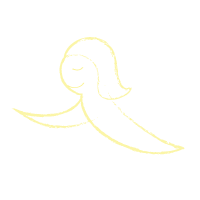
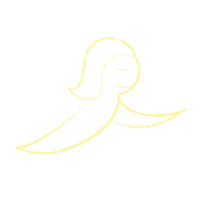
img timeline added

Changed region(s): [[0.06, 0.18, 0.93, 0.78], [0.06, 0.69, 0.45, 0.78], [0.15, 0.69, 0.21, 0.72]]

diff --git a/app/assets/stylesheets/countdown_pages.css b/app/assets/stylesheets/countdown_pages.css
@@ -2,3 +2,32 @@
 #countdown-show{
 	text-align: center;
 }
+
+#countdown-container h3 {
+	margin-bottom: 0px;
+}
+
+#countdown-container a {
+	font-size: 0.5em;
+}
+
+.countdown-show-icon {
+	width: 20%;
+}
+
+#logo-spacer {
+	display: inline-block;
+	border-bottom: 2px dashed #FCF39A;
+	width: 55%;
+	margin-top: 60px;
+	vertical-align: top;
+}
+
+.reverse {
+	 -moz-transform: scaleX(-1);
+    -o-transform: scaleX(-1);
+    -webkit-transform: scaleX(-1);
+    transform: scaleX(-1);
+    filter: FlipH;
+    -ms-filter: "FlipH";
+}

diff --git a/app/assets/stylesheets/application.css b/app/assets/stylesheets/application.css
@@ -51,7 +51,6 @@ body {
 
 
 .action_link {
-	margin-top: 40px;
 	display: block;
 	font-size: 0.6em;
 	text-decoration: none;

diff --git a/app/controllers/countdown_pages_controller.rb b/app/controllers/countdown_pages_controller.rb
@@ -6,6 +6,8 @@ class CountdownPagesController < ApplicationController
   # GET /:url_token
   def show
     @countdown_page = CountdownPage.decrypt(params[:url_token])
+    @user1 = @countdown_page.users.first
+    @user2 = @countdown_page.users.last
     
     if @countdown_page.nil?
       redirect_to root_path, notice: "The countdown you requested could not be found."
